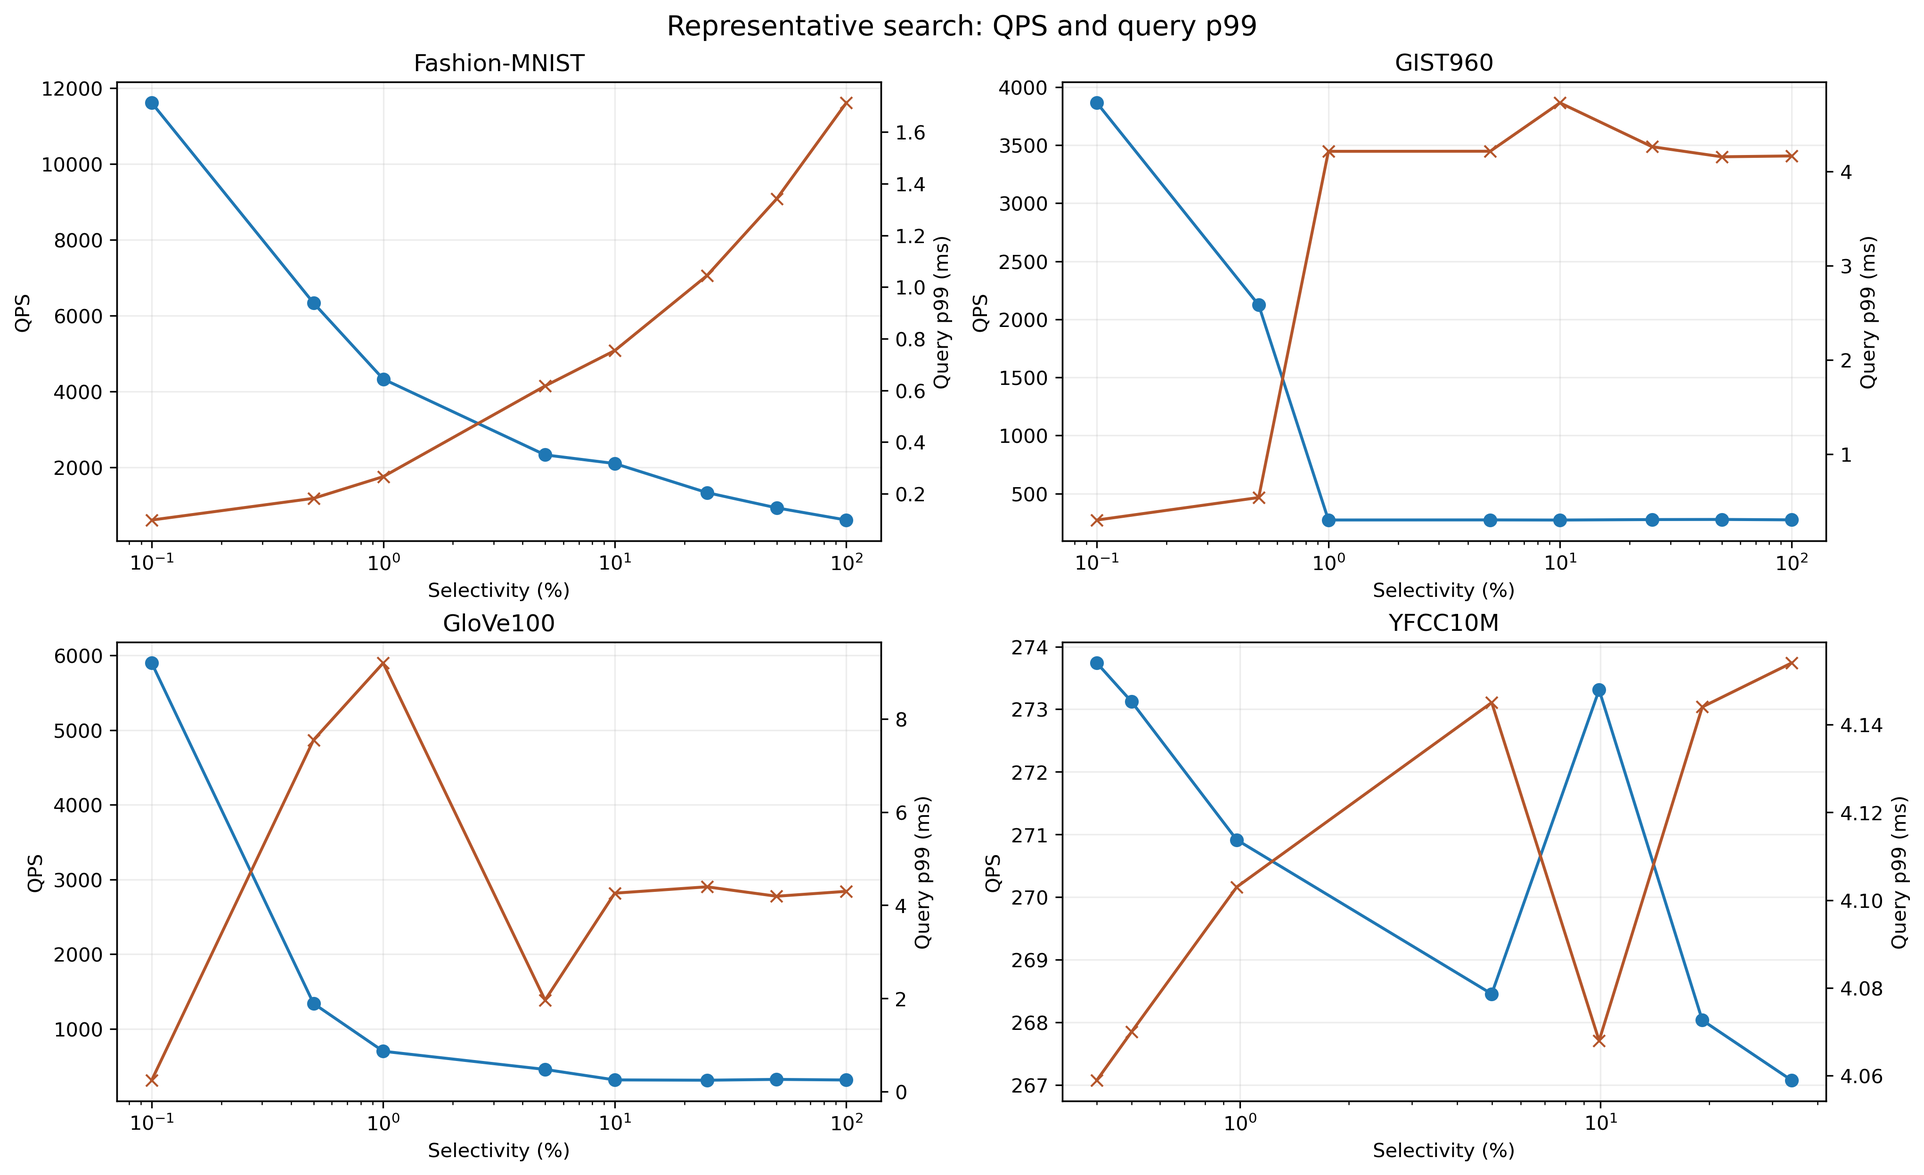
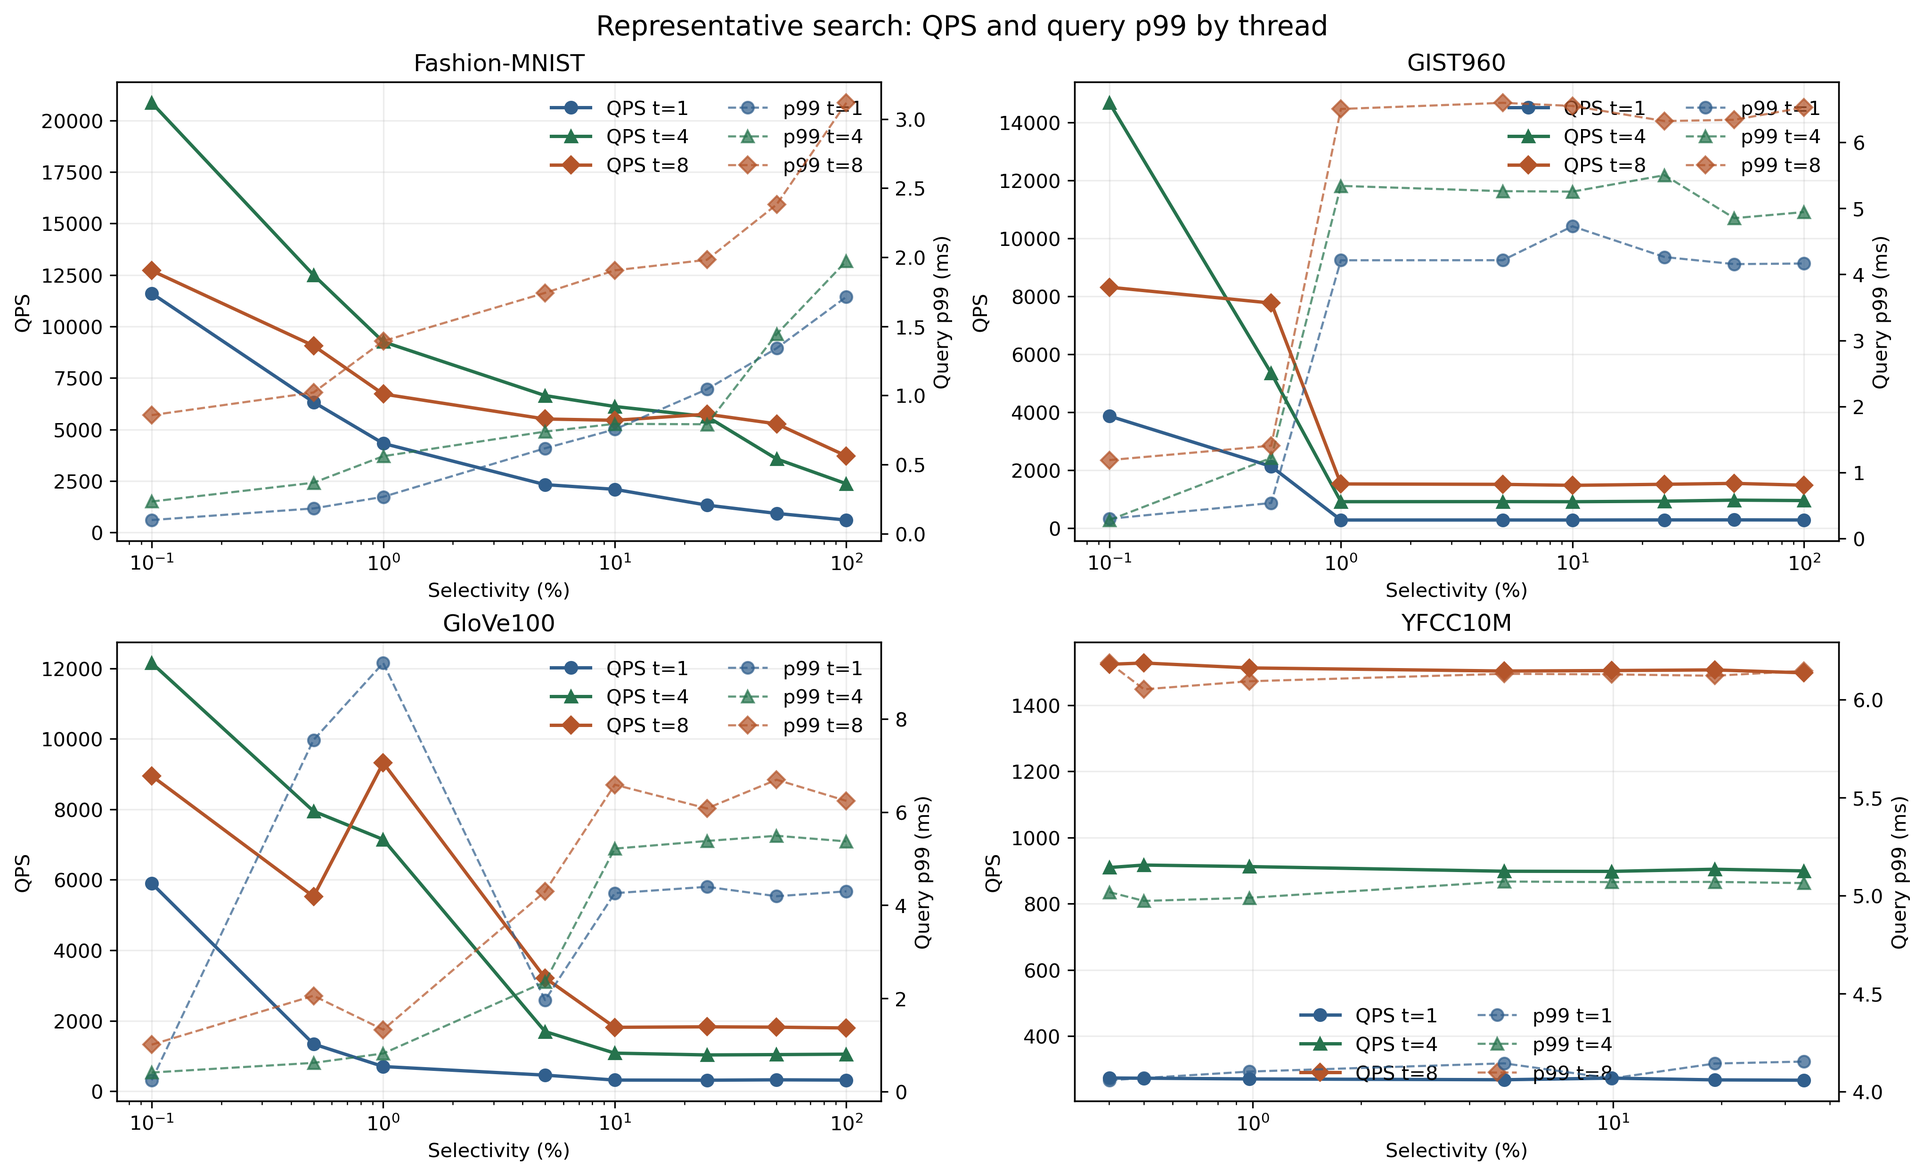
Clarify PipeANN experiment diagnostic plots

diff --git a/scripts/plot_qps_4sets_results.py b/scripts/plot_qps_4sets_results.py
@@ -146,44 +146,47 @@ def plot_scaling(rows: list[dict[str, str]], output_path: Path, savefig_dpi: int
             representative = by_thread[1]
             dataset_points.append(
                 {
+                    "bucket": representative["bucket_name"],
                     "selectivity": to_float(representative["selectivity_midpoint"]) * 100,
-                    "efficiency": qps_8 / qps_1 / 8.0,
-                    "speedup": qps_8 / qps_1,
+                    "speedups": {thread: to_float(by_thread[thread]["qps"]) / qps_1 for thread in THREAD_ORDER},
                     "route": route_for(representative),
                 }
             )
 
         dataset_points.sort(key=lambda item: item["selectivity"])
-        for route in ["prefilter", "graph", "fallback"]:
-            points = [item for item in dataset_points if item["route"] == route]
-            if not points:
-                continue
+        for item in dataset_points:
             axis.plot(
-                [item["selectivity"] for item in points],
-                [item["efficiency"] for item in points],
+                THREAD_ORDER,
+                [item["speedups"][thread] for thread in THREAD_ORDER],
                 marker="o",
-                linewidth=1.8,
-                color=ROUTE_COLORS[route],
-                label=route,
+                linewidth=1.45,
+                color=ROUTE_COLORS[item["route"]],
+                alpha=0.78,
             )
-            for item in points:
-                axis.annotate(f"{item['speedup']:.1f}x", (item["selectivity"], item["efficiency"]),
-                              textcoords="offset points", xytext=(0, 7), ha="center", fontsize=8)
+            axis.annotate(
+                item["bucket"],
+                (THREAD_ORDER[-1], item["speedups"][THREAD_ORDER[-1]]),
+                textcoords="offset points",
+                xytext=(5, 0),
+                va="center",
+                fontsize=7,
+                color=ROUTE_COLORS[item["route"]],
+            )
 
-        axis.axhline(1.0, color="#333333", linestyle="--", linewidth=1.0, alpha=0.55, label="linear")
-        axis.set_ylim(0, 1.05)
-        axis.set_xscale("log")
+        axis.plot(THREAD_ORDER, THREAD_ORDER, color="#333333", linestyle="--", linewidth=1.0, alpha=0.55, label="linear speedup")
+        axis.set_xticks(THREAD_ORDER)
         axis.set_title(DATASET_LABELS[dataset])
-        axis.set_xlabel("Selectivity (%)")
-        axis.set_ylabel("8-thread efficiency vs t=1")
-        axis.legend(frameon=False)
+        axis.set_xlabel("Threads")
+        axis.set_ylabel("QPS speedup vs t=1")
+        axis.legend(frameon=False, loc="upper left")
 
-    fig.suptitle("qps_4sets reproduction: scaling efficiency exposes non-linear bottlenecks", fontsize=14)
+    fig.suptitle("qps_4sets reproduction: speedup curves by selectivity bucket and route", fontsize=14)
     fig.savefig(output_path, bbox_inches="tight")
     plt.close(fig)
 
 
 def plot_route_io(rows: list[dict[str, str]], output_path: Path, savefig_dpi: int = 400) -> None:
+    import matplotlib.lines as mlines
     import matplotlib.pyplot as plt
 
     set_common_style(savefig_dpi)
@@ -195,31 +198,44 @@ def plot_route_io(rows: list[dict[str, str]], output_path: Path, savefig_dpi: in
         mean_ios = [to_float(row["mean_ios"]) for row in dataset_rows]
         candidates = [to_float(row["mean_candidate_count"]) for row in dataset_rows]
 
-        axis.plot(x_values, mean_ios, color="#3b5f8a", marker="o", linewidth=1.8, label="Mean IOs/query")
+        axis.plot(x_values, mean_ios, color="#3b5f8a", marker="o", linewidth=1.8, label="logical IOs/query")
         twin = axis.twinx()
-        twin.plot(x_values, candidates, color="#8a3b52", marker="s", linewidth=1.5, label="Mean candidates")
+        twin.plot(x_values, candidates, color="#8a3b52", marker="s", linewidth=1.5, label="candidate count")
         twin.set_yscale("log")
-        twin.set_ylabel("Mean candidates/query")
+        twin.set_ylabel("Candidate count/query")
 
         for row in dataset_rows:
+            route = route_for(row)
             axis.scatter(
                 [to_float(row["selectivity_midpoint"]) * 100],
                 [to_float(row["mean_ios"])],
-                color=ROUTE_COLORS[route_for(row)],
+                color=ROUTE_COLORS[route],
                 s=48,
                 zorder=4,
+            )
+            axis.annotate(
+                row["bucket_name"],
+                (to_float(row["selectivity_midpoint"]) * 100, to_float(row["mean_ios"])),
+                textcoords="offset points",
+                xytext=(0, 6),
+                ha="center",
+                fontsize=7,
             )
 
         axis.set_xscale("log")
         axis.set_title(DATASET_LABELS[dataset])
         axis.set_xlabel("Selectivity (%)")
-        axis.set_ylabel("Mean IOs/query")
+        axis.set_ylabel("Logical IOs/query, t=1")
 
         handles, labels = axis.get_legend_handles_labels()
         twin_handles, twin_labels = twin.get_legend_handles_labels()
-        axis.legend(handles + twin_handles, labels + twin_labels, frameon=False, loc="upper left")
+        route_handles = [
+            mlines.Line2D([], [], color=color, marker="o", linestyle="None", label=f"route: {route}")
+            for route, color in ROUTE_COLORS.items()
+        ]
+        axis.legend(handles + twin_handles + route_handles[:2], labels + twin_labels + [h.get_label() for h in route_handles[:2]], frameon=False, loc="upper left")
 
-    fig.suptitle("qps_4sets reproduction: route behavior and per-query IO/candidate pressure", fontsize=14)
+    fig.suptitle("qps_4sets reproduction: thread-1 route choice, logical IOs, and candidate counts", fontsize=14)
     fig.savefig(output_path, bbox_inches="tight")
     plt.close(fig)
 
@@ -274,8 +290,9 @@ def plot_disk_diagnostics(rows: list[dict[str, str]], output_path: Path, savefig
 
     for axis, dataset in zip(axes.flat, DATASET_ORDER):
         thread1_rows = sorted_dataset_rows([row for row in rows if row["dataset"] == dataset and int(row["threads"]) == 1])
-        ok_rows = [row for row in thread1_rows if row.get("disk_metrics_status", "ok") in ("", "ok")]
-        invalid_rows = [row for row in thread1_rows if row.get("disk_metrics_status", "ok") not in ("", "ok")]
+        has_status = any("disk_metrics_status" in row for row in thread1_rows)
+        ok_rows = [row for row in thread1_rows if has_status and row.get("disk_metrics_status", "ok") in ("", "ok")]
+        invalid_rows = [row for row in thread1_rows if (not has_status) or row.get("disk_metrics_status", "ok") not in ("", "ok")]
 
         x_values = [to_float(row["selectivity_midpoint"]) * 100 for row in ok_rows]
         read_values = [to_optional_float(row.get("avg_read_mb_s")) for row in ok_rows]
@@ -295,22 +312,17 @@ def plot_disk_diagnostics(rows: list[dict[str, str]], output_path: Path, savefig
         for row in invalid_rows:
             x_value = to_float(row["selectivity_midpoint"]) * 100
             axis.axvline(x_value, color="#6a6a6a", linewidth=0.9, alpha=0.22)
-            axis.annotate(
-                "unavailable",
-                (x_value, 0.02),
-                xycoords=("data", "axes fraction"),
-                rotation=90,
-                va="bottom",
-                ha="right",
-                fontsize=8,
-                color="#6a6a6a",
-            )
+        if invalid_rows:
+            reason = "legacy counters unavailable" if not has_status else "unavailable"
+            axis.text(0.5, 0.5, reason, transform=axis.transAxes, ha="center", va="center", color="#6a6a6a", fontsize=10)
 
         axis.set_xscale("log")
         axis.set_title(DATASET_LABELS[dataset])
         axis.set_xlabel("Selectivity (%)")
         axis.set_ylabel("Disk metrics, t=1")
-        axis.legend(frameon=False)
+        handles, labels = axis.get_legend_handles_labels()
+        if handles:
+            axis.legend(handles, labels, frameon=False)
 
     fig.suptitle("qps_4sets reproduction: disk metrics with invalid counters marked", fontsize=14)
     fig.savefig(output_path, bbox_inches="tight")
@@ -341,31 +353,6 @@ def plot_bottleneck_diagnostics(rows: list[dict[str, str]], output_path: Path, s
             )
 
         thread1_rows = [row for row in dataset_rows if int(row["threads"]) == 1]
-        x_values = [to_float(row["selectivity_midpoint"]) * 100 for row in thread1_rows]
-        disk_values = [to_float(row["avg_disk_util_pct"]) for row in thread1_rows]
-        read_values = [to_float(row["avg_read_mb_s"]) for row in thread1_rows]
-
-        twin = axis.twinx()
-        twin.plot(
-            x_values,
-            disk_values,
-            marker="x",
-            linestyle="--",
-            linewidth=1.4,
-            color="#8a3b52",
-            label="Disk util %, t=1",
-        )
-        twin.plot(
-            x_values,
-            read_values,
-            marker="+",
-            linestyle=":",
-            linewidth=1.4,
-            color="#b4552a",
-            label="Read MB/s, t=1",
-        )
-        twin.set_ylabel("Disk util (%) / read MB/s")
-
         for row in thread1_rows:
             axis.scatter(
                 [to_float(row["selectivity_midpoint"]) * 100],
@@ -374,21 +361,37 @@ def plot_bottleneck_diagnostics(rows: list[dict[str, str]], output_path: Path, s
                 s=48,
                 zorder=4,
             )
+            axis.annotate(
+                row["bucket_name"],
+                (to_float(row["selectivity_midpoint"]) * 100, to_float(row["avg_cpu_pct"])),
+                textcoords="offset points",
+                xytext=(0, 6),
+                ha="center",
+                fontsize=7,
+            )
 
         axis.set_xscale("log")
         axis.set_title(DATASET_LABELS[dataset])
         axis.set_xlabel("Selectivity (%)")
         axis.set_ylabel("Avg CPU pct per requested thread")
+        axis.text(
+            0.02,
+            0.03,
+            "legacy disk counters unavailable;\nuse io_representative plots for SSD evidence",
+            transform=axis.transAxes,
+            fontsize=8,
+            color="#6a6a6a",
+            va="bottom",
+        )
 
         handles, labels = axis.get_legend_handles_labels()
-        twin_handles, twin_labels = twin.get_legend_handles_labels()
         route_handles = [
             mlines.Line2D([], [], color=color, marker="o", linestyle="None", label=f"route: {route}")
             for route, color in ROUTE_COLORS.items()
         ]
-        axis.legend(handles[:2] + twin_handles + route_handles[:2], labels[:2] + twin_labels + [h.get_label() for h in route_handles[:2]], frameon=False)
+        axis.legend(handles[:4] + route_handles[:2], labels[:4] + [h.get_label() for h in route_handles[:2]], frameon=False)
 
-    fig.suptitle("qps_4sets reproduction: CPU activity vs observed SSD pressure", fontsize=14)
+    fig.suptitle("qps_4sets reproduction: CPU activity and route diagnostics", fontsize=14)
     fig.savefig(output_path, bbox_inches="tight")
     plt.close(fig)
 

diff --git a/scripts/run_qps_4sets_io_representative.py b/scripts/run_qps_4sets_io_representative.py
@@ -456,8 +456,33 @@ def plot_all(out_dir: Path, rows: list[dict[str, Any]]) -> None:
         log("[warn] matplotlib unavailable; skip plots")
         return
 
-    def dataset_rows(dataset: str) -> list[dict[str, Any]]:
-        return sorted([row for row in rows if row["dataset"] == dataset and int(row["thread"]) == 1], key=lambda row: float(row["selectivity"]))
+    thread_order = [1, 4, 8]
+    thread_colors = {1: "#315f8d", 4: "#26734d", 8: "#b4552a"}
+    thread_markers = {1: "o", 4: "^", 8: "D"}
+
+    def as_float(value: Any) -> float | None:
+        if value is None or value == "":
+            return None
+        return float(value)
+
+    def dataset_rows(dataset: str, thread: int | None = None) -> list[dict[str, Any]]:
+        selected = [row for row in rows if row["dataset"] == dataset]
+        if thread is not None:
+            selected = [row for row in selected if int(row["thread"]) == thread]
+        return sorted(selected, key=lambda row: (float(row["selectivity"]), int(row["thread"])))
+
+    def xy_for(dataset: str, thread: int, field: str, scale: float = 1.0, skip_missing: bool = True) -> tuple[list[float], list[float]]:
+        x_values: list[float] = []
+        y_values: list[float] = []
+        for row in dataset_rows(dataset, thread):
+            value = as_float(row.get(field))
+            if value is None:
+                if skip_missing:
+                    continue
+                value = 0.0
+            x_values.append(float(row["selectivity"]) * 100.0)
+            y_values.append(value * scale)
+        return x_values, y_values
 
     def common_axes(title: str, ylabel: str):
         fig, axes = plt.subplots(2, 2, figsize=(13.5, 8.2), constrained_layout=True)
@@ -470,51 +495,92 @@ def plot_all(out_dir: Path, rows: list[dict[str, Any]]) -> None:
             axis.grid(True, alpha=0.22)
         return fig, axes
 
-    fig, axes = common_axes("Representative search: QPS and query p99", "QPS")
+    fig, axes = common_axes("Representative search: QPS and query p99 by thread", "QPS")
     for axis, dataset in zip(axes.flat, DATASET_ORDER):
-        ds_rows = dataset_rows(dataset)
-        x = [float(row["selectivity"]) * 100 for row in ds_rows]
-        axis.plot(x, [float(row["qps"]) for row in ds_rows], marker="o", label="QPS")
         twin = axis.twinx()
-        twin.plot(x, [float(row["query_p99_latency_us"]) / 1000.0 for row in ds_rows], marker="x", color="#b4552a", label="p99 ms")
+        for thread in thread_order:
+            x, qps = xy_for(dataset, thread, "qps")
+            if not x:
+                continue
+            color = thread_colors[thread]
+            axis.plot(x, qps, marker=thread_markers[thread], color=color, linewidth=1.7, label=f"QPS t={thread}")
+            x_lat, p99_ms = xy_for(dataset, thread, "query_p99_latency_us", scale=0.001)
+            twin.plot(x_lat, p99_ms, marker=thread_markers[thread], color=color, linestyle="--", linewidth=1.1, alpha=0.72, label=f"p99 t={thread}")
         twin.set_ylabel("Query p99 (ms)")
+        handles, labels = axis.get_legend_handles_labels()
+        twin_handles, twin_labels = twin.get_legend_handles_labels()
+        axis.legend(handles + twin_handles, labels + twin_labels, frameon=False, ncol=2)
     fig.savefig(out_dir / "representative_qps_latency.png", bbox_inches="tight", dpi=300)
     plt.close(fig)
 
-    fig, axes = common_axes("Representative search: CPU", "CPU pct")
+    fig, axes = common_axes("Representative search: CPU by thread", "CPU pct")
     for axis, dataset in zip(axes.flat, DATASET_ORDER):
-        ds_rows = dataset_rows(dataset)
-        axis.plot([float(row["selectivity"]) * 100 for row in ds_rows], [float(row["cpu_pct"]) for row in ds_rows], marker="o")
+        for thread in thread_order:
+            x, cpu = xy_for(dataset, thread, "cpu_pct")
+            if x:
+                axis.plot(x, cpu, marker=thread_markers[thread], color=thread_colors[thread], linewidth=1.7, label=f"t={thread}")
+        axis.legend(frameon=False, ncol=3)
     fig.savefig(out_dir / "representative_cpu.png", bbox_inches="tight", dpi=300)
     plt.close(fig)
 
-    fig, axes = common_axes("Representative search: real disk metrics", "IOPS / QD / await ms")
-    for axis, dataset in zip(axes.flat, DATASET_ORDER):
-        ds_rows = dataset_rows(dataset)
-        valid = [row for row in ds_rows if row.get("disk_metrics_status") in (None, "", "ok")]
-        invalid = [row for row in ds_rows if row.get("disk_metrics_status") not in (None, "", "ok")]
-        x = [float(row["selectivity"]) * 100 for row in valid]
-        if valid:
-            axis.plot(x, [float(row["real_read_iops"] or 0) for row in valid], marker="o", label="read IOPS")
-            axis.plot(x, [float(row["real_qd"] or 0) for row in valid], marker="+", label="QD")
-            axis.plot(x, [float(row["real_read_await_ms"] or 0) for row in valid], marker="x", label="read await ms")
-        for row in invalid:
-            axis.axvline(float(row["selectivity"]) * 100, color="#6a6a6a", alpha=0.22)
-        if valid:
-            axis.legend(frameon=False)
+    disk_metrics = [
+        ("real_read_iops", "Read IOPS", "symlog"),
+        ("real_read_mb_s", "Read MB/s", "symlog"),
+        ("real_qd", "Avg queue depth", "symlog"),
+        ("real_read_await_ms", "Read await (ms)", "linear"),
+    ]
+    fig, axes = plt.subplots(len(DATASET_ORDER), len(disk_metrics), figsize=(17.0, 11.5), constrained_layout=True)
+    fig.suptitle("Representative search: real disk metrics by thread", fontsize=14)
+    for row_index, dataset in enumerate(DATASET_ORDER):
+        for col_index, (field, label, scale_name) in enumerate(disk_metrics):
+            axis = axes[row_index][col_index]
+            for thread in thread_order:
+                x, y = xy_for(dataset, thread, field)
+                if y:
+                    axis.plot(x, y, marker=thread_markers[thread], color=thread_colors[thread], linewidth=1.35, label=f"t={thread}")
+            if scale_name == "symlog":
+                axis.set_yscale("symlog", linthresh=0.01)
+            axis.set_xscale("log")
+            axis.set_xlabel("Selectivity (%)")
+            axis.set_ylabel(label)
+            axis.grid(True, alpha=0.22)
+            if col_index == 0:
+                axis.set_title(DATASET_LABELS[dataset], loc="left")
+            else:
+                axis.set_title(label)
+            if row_index == 0 and col_index == len(disk_metrics) - 1:
+                axis.legend(frameon=False, ncol=1)
     fig.savefig(out_dir / "representative_disk.png", bbox_inches="tight", dpi=300)
     plt.close(fig)
 
-    fig, axes = common_axes("Representative search vs fio same-QD capacity", "Real/Fio capacity ratio")
-    for axis, dataset in zip(axes.flat, DATASET_ORDER):
-        ds_rows = dataset_rows(dataset)
-        axis.plot(
-            [float(row["selectivity"]) * 100 for row in ds_rows],
-            [float(row["fio_capacity_ratio"] or 0) for row in ds_rows],
-            marker="o",
-        )
-        axis.axhline(0.8, color="#333333", linestyle="--", linewidth=1.0, alpha=0.5)
-        axis.axhline(0.5, color="#333333", linestyle=":", linewidth=1.0, alpha=0.5)
+    fig, axes = plt.subplots(len(DATASET_ORDER), 2, figsize=(14.5, 11.5), constrained_layout=True)
+    fig.suptitle("Representative search vs fio same-QD capacity: solid=search, dashed=fio, zero-read search points omitted", fontsize=13)
+    for row_index, dataset in enumerate(DATASET_ORDER):
+        for col_index, (real_field, fio_field, label) in enumerate(
+            [("real_read_iops", "fio_iops", "Read IOPS"), ("real_read_mb_s", "fio_bw_mb_s", "Read MB/s")]
+        ):
+            axis = axes[row_index][col_index]
+            for thread in thread_order:
+                x_real, y_real = xy_for(dataset, thread, real_field)
+                x_fio, y_fio = xy_for(dataset, thread, fio_field)
+                real_points = [(x, y) for x, y in zip(x_real, y_real) if y > 0.0]
+                fio_points = [(x, y) for x, y in zip(x_fio, y_fio) if y > 0.0]
+                if y_real:
+                    if real_points:
+                        axis.plot([x for x, _ in real_points], [y for _, y in real_points], marker=thread_markers[thread], color=thread_colors[thread], linewidth=1.45, label=f"search t={thread}")
+                    elif col_index == 0:
+                        axis.text(0.03, 0.1 + 0.06 * thread_order.index(thread), f"search t={thread}: 0 reads", transform=axis.transAxes, fontsize=8, color=thread_colors[thread])
+                if fio_points:
+                    axis.plot([x for x, _ in fio_points], [y for _, y in fio_points], marker=thread_markers[thread], color=thread_colors[thread], linestyle="--", linewidth=1.2, alpha=0.72, label=f"fio t={thread}")
+            axis.set_xscale("log")
+            axis.set_yscale("log")
+            axis.set_xlabel("Selectivity (%)")
+            axis.set_ylabel(label)
+            axis.grid(True, alpha=0.22)
+            title = DATASET_LABELS[dataset] if col_index == 0 else label
+            axis.set_title(title, loc="left" if col_index == 0 else "center")
+            if row_index == 0 and col_index == 1:
+                axis.legend(frameon=False, ncol=2)
     fig.savefig(out_dir / "representative_vs_fio.png", bbox_inches="tight", dpi=300)
     plt.close(fig)
 
